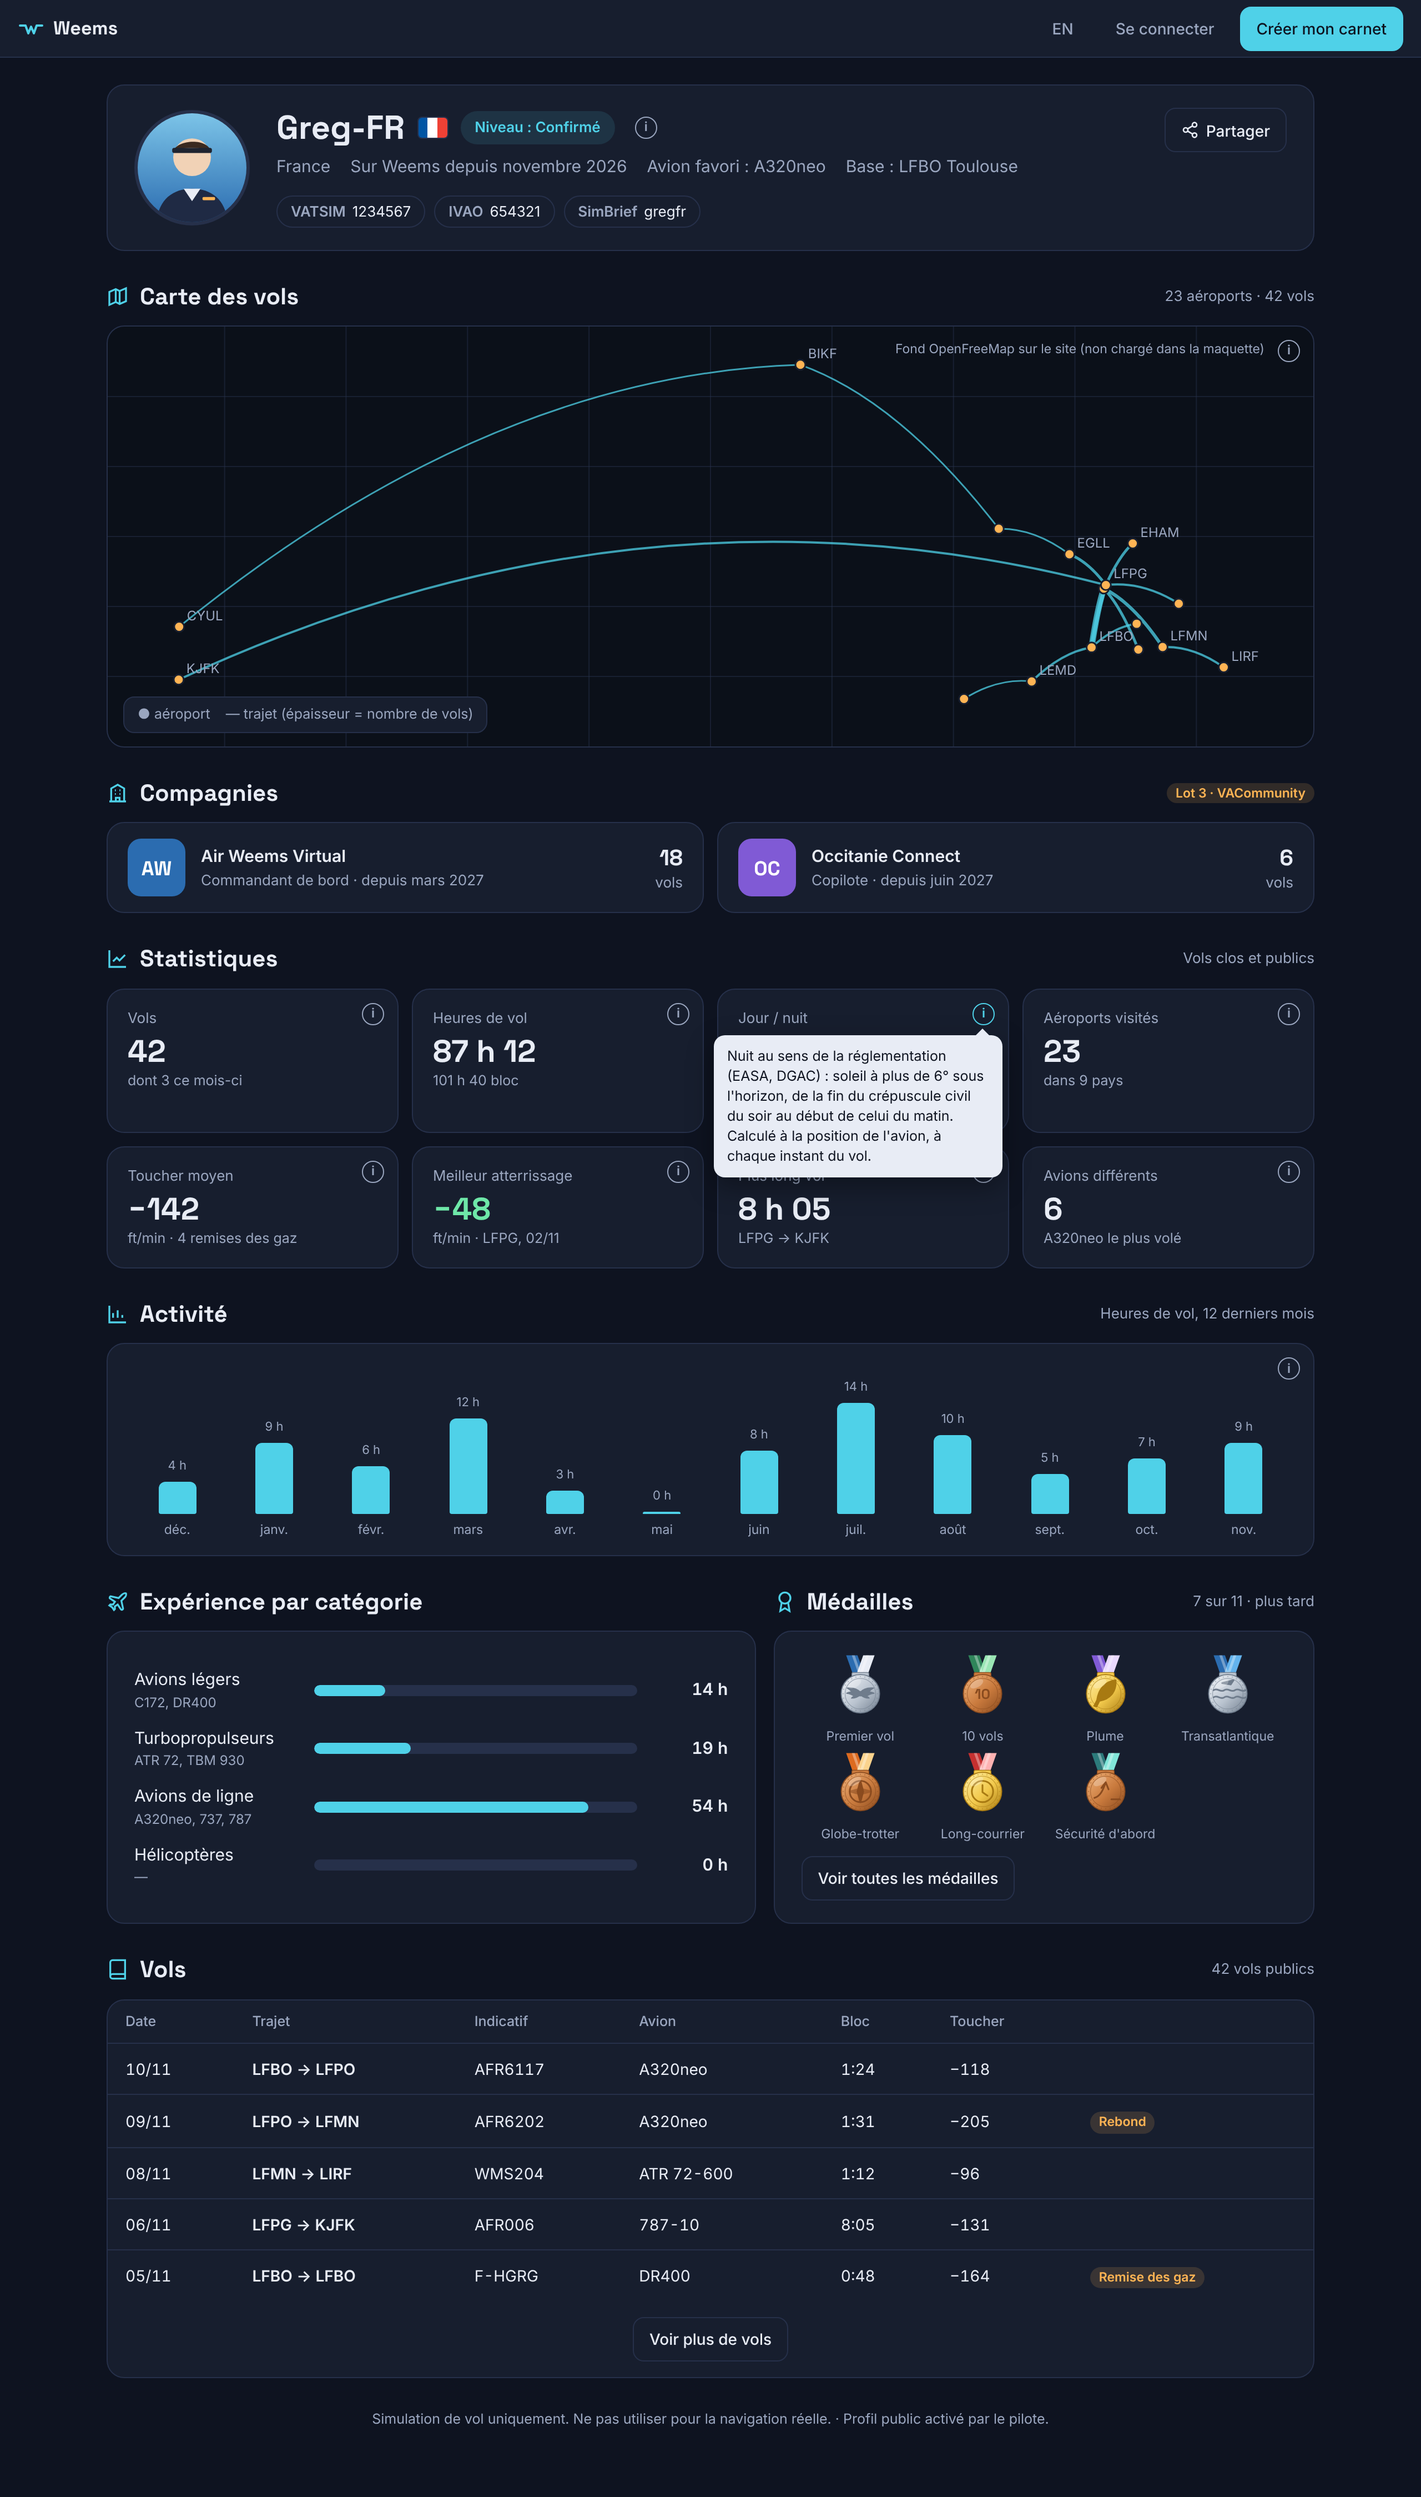
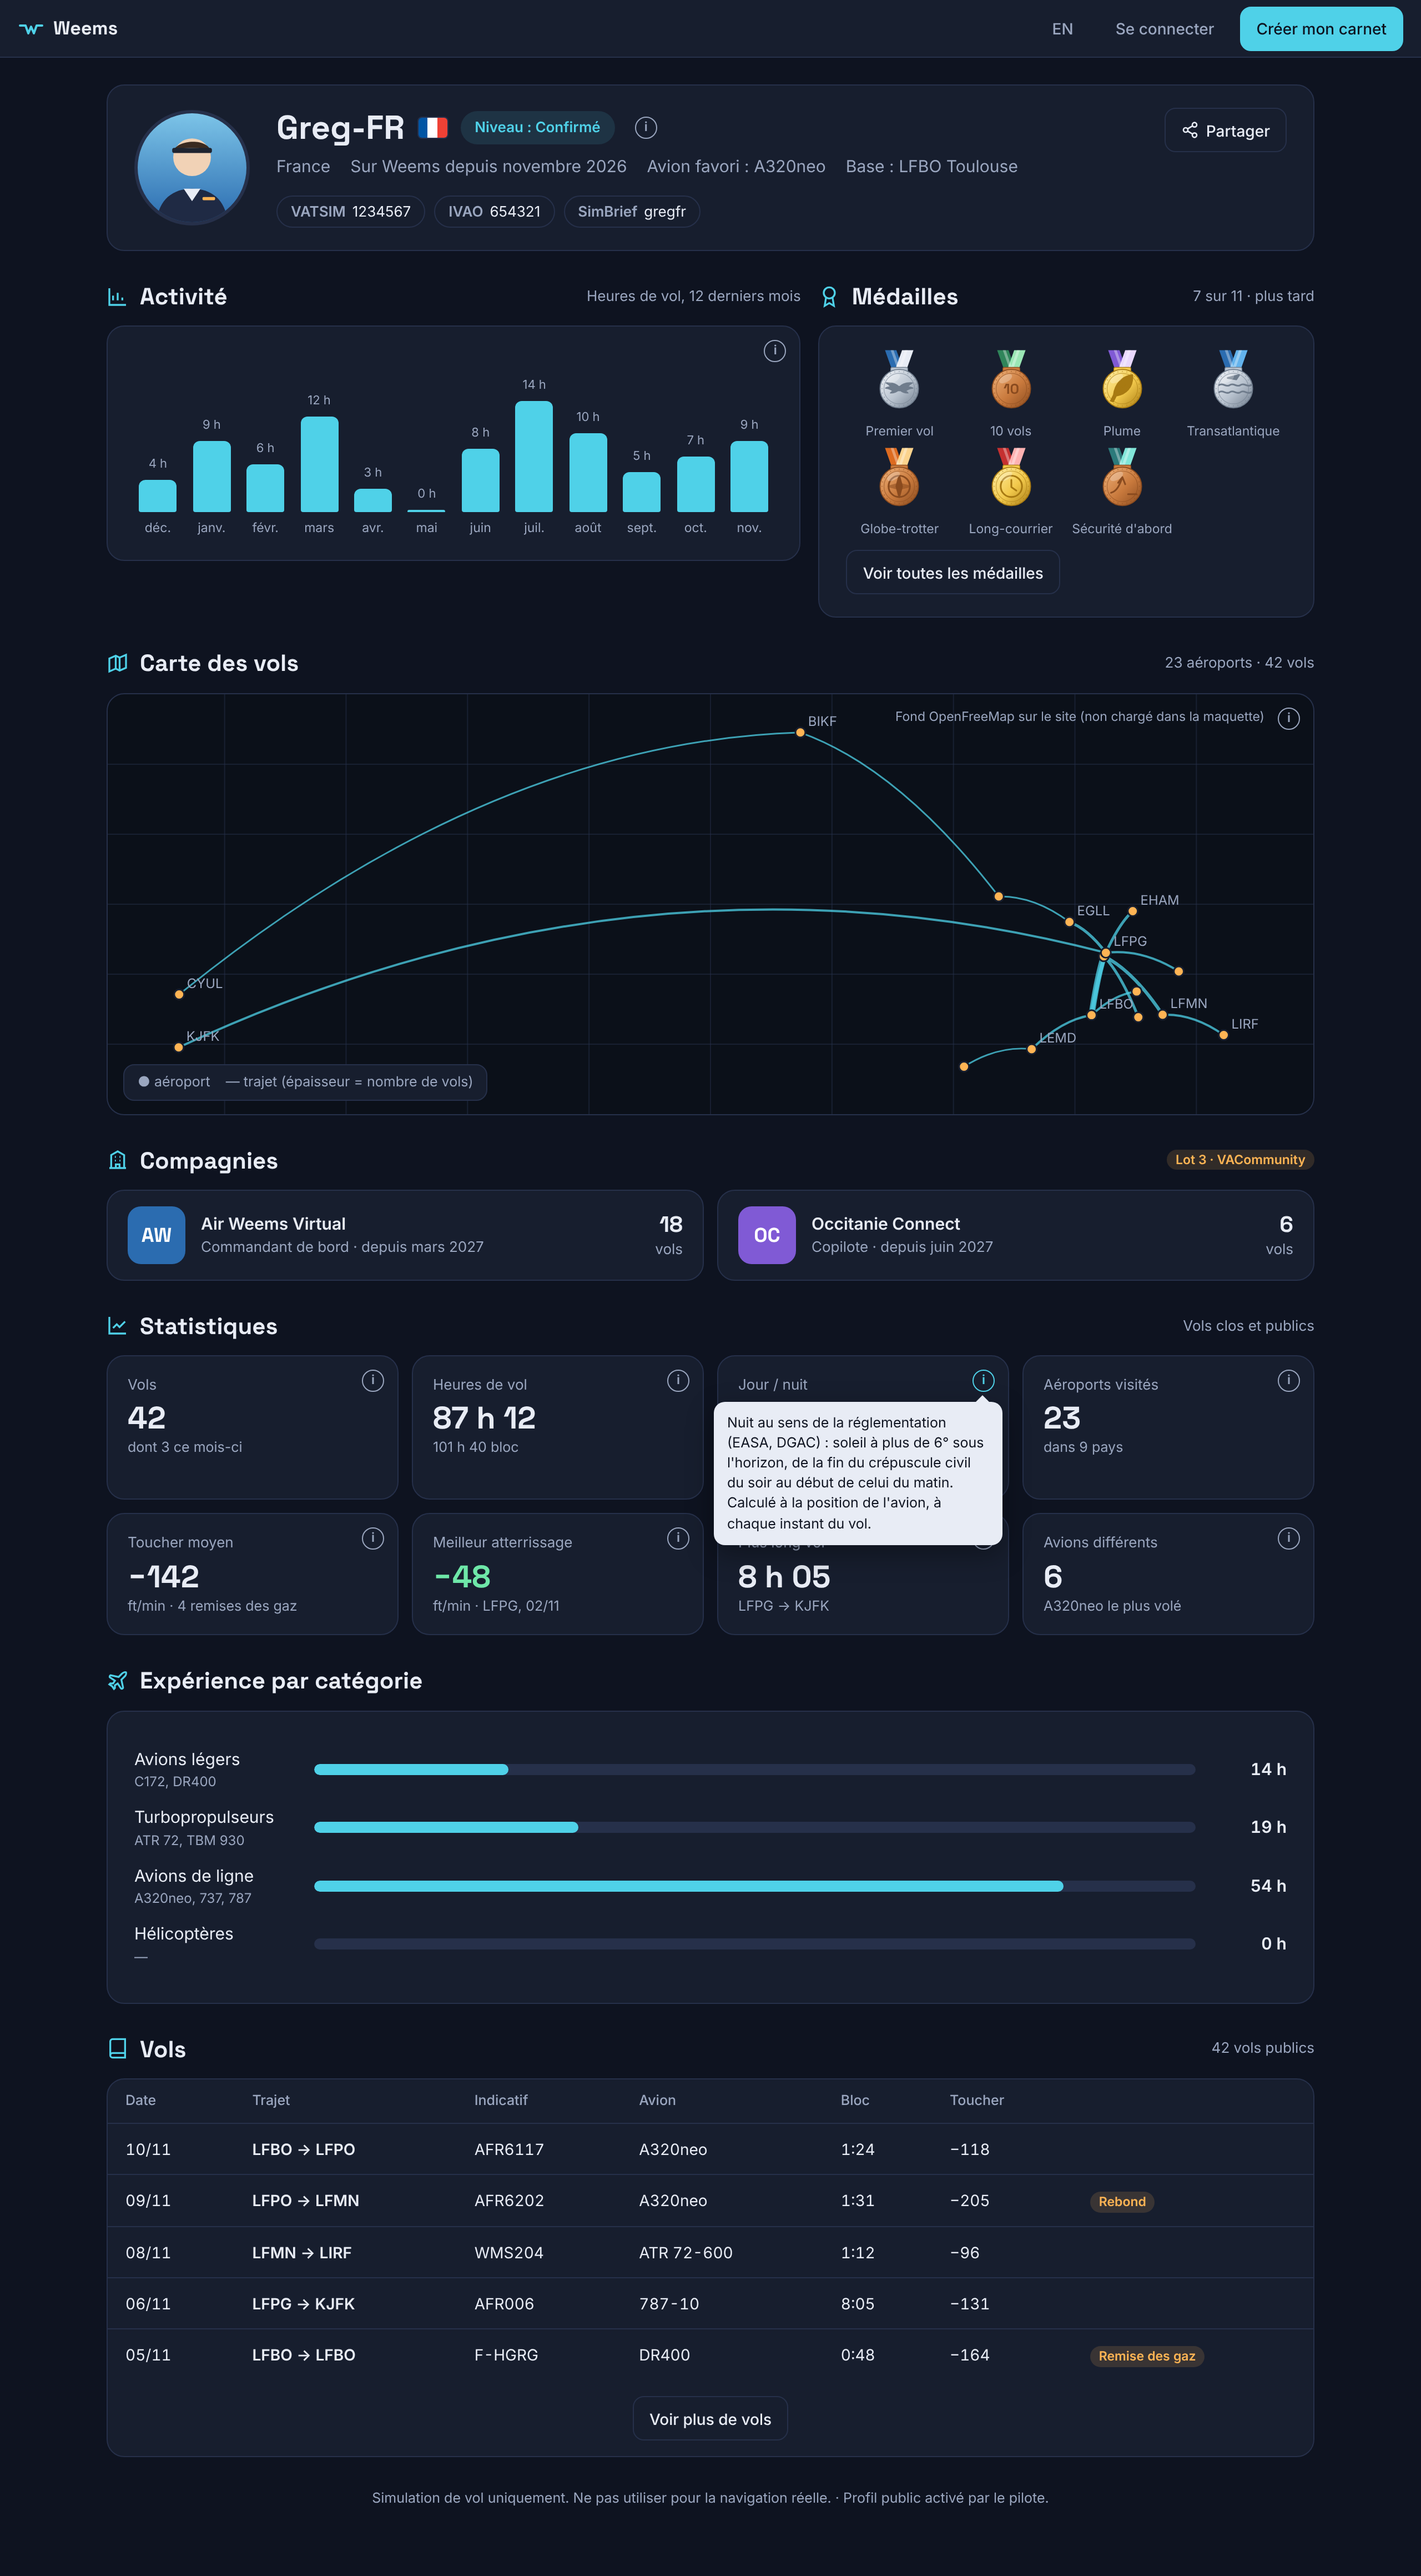
docs(j4): activité et médailles sous l'en-tête, avant la carte
Claude-Session: https://claude.ai/code/session_01N46qzV3MxXmsdYZrydt2jy

diff --git a/docs/cahiers-des-charges/spec-J4-profil-public.md b/docs/cahiers-des-charges/spec-J4-profil-public.md
@@ -62,13 +62,15 @@ Règles :
 
 **Profil** (`/pilots/{handle}`)
 
+Ordre des blocs (validé avec Greg sur la maquette) : en-tête ; activité et médailles côte à côte (en v1, sans médailles, l'activité prend toute la largeur) ; carte des vols ; compagnies (lot 3) ; statistiques ; expérience par catégorie (plus tard) ; liste des vols.
+
 - En-tête : photo (initiales à défaut), pseudo, drapeau et nom du pays, niveau déclaré, « sur Weems depuis » (création du compte), avion le plus volé, liens vers les pages VATSIM et IVAO du pilote, bouton « Partager ».
 - Statistiques : nombre de vols, heures de vol (temps en vol) et heures bloc, aéroports différents visités, nombre d'avions différents, taux de chute moyen au toucher et meilleur atterrissage (le plus doux), plus long vol, nombre de remises des gaz, heures de jour et de nuit.
 - **Heures de nuit** : définition réglementaire (EASA, DGAC) : de la fin du crépuscule civil du soir au début de celui du matin, soit le soleil à plus de 6° sous l'horizon. Calculées sur la trajectoire simplifiée (environ 500 points par vol), en vol seulement : la position du soleil est calculée au milieu de chaque intervalle entre deux points, à la position de l'avion. Précision de l'ordre de la minute, suffisante pour un carnet de simulation [Confiance élevée]. Un vol sans trajectoire compte en heures de vol mais ni de jour ni de nuit.
 - **Activité par mois** : heures de vol des 12 derniers mois, un bâton par mois.
 - **Aides** (demande de Greg) : une petite icône « i » en haut à droite des cases dont le calcul n'est pas évident (vols comptés, heures de vol et bloc, jour et nuit, aéroports, toucher moyen, meilleur atterrissage, plus long vol, avions, activité, carte, niveau déclaré) ; une bulle explique le calcul au survol, et au toucher sur mobile. Textes dans les fichiers de traduction.
 - Liste des vols, du plus récent au plus ancien, 20 par page : date, indicatif, trajet, avion, temps bloc, pastilles (remise des gaz, rebond…). Même tableau que « Mes vols », sans filtres.
-- **Carte des vols** (juste sous l'en-tête, au-dessus des compagnies et des statistiques, demande de Greg) : un arc par trajet entre départ et arrivée, plus épais quand le trajet est volé souvent, un point par aéroport. Les coordonnées viennent du premier et du dernier point de la trajectoire de chaque vol (pas besoin de l'import OurAirports) ; un vol sans trajectoire n'est pas dessiné. Une route API dédiée renvoie les trajets agrégés (`GET /v1/pilots/{handle}/routes`), pas les trajectoires complètes : la page reste légère quel que soit le nombre de vols.
+- **Carte des vols** : un arc par trajet entre départ et arrivée, plus épais quand le trajet est volé souvent, un point par aéroport. Les coordonnées viennent du premier et du dernier point de la trajectoire de chaque vol (pas besoin de l'import OurAirports) ; un vol sans trajectoire n'est pas dessiné. Une route API dédiée renvoie les trajets agrégés (`GET /v1/pilots/{handle}/routes`), pas les trajectoires complètes : la page reste légère quel que soit le nombre de vols.
 
 **Vol public** (`/pilots/{handle}/flights/{id}`) : la page de vol existante (carte colorée par phase, profil vertical, phases, atterrissage, journal), en lecture seule, avec un lien vers le profil. Le vol doit appartenir au pilote de l'adresse, sinon 404.
 
